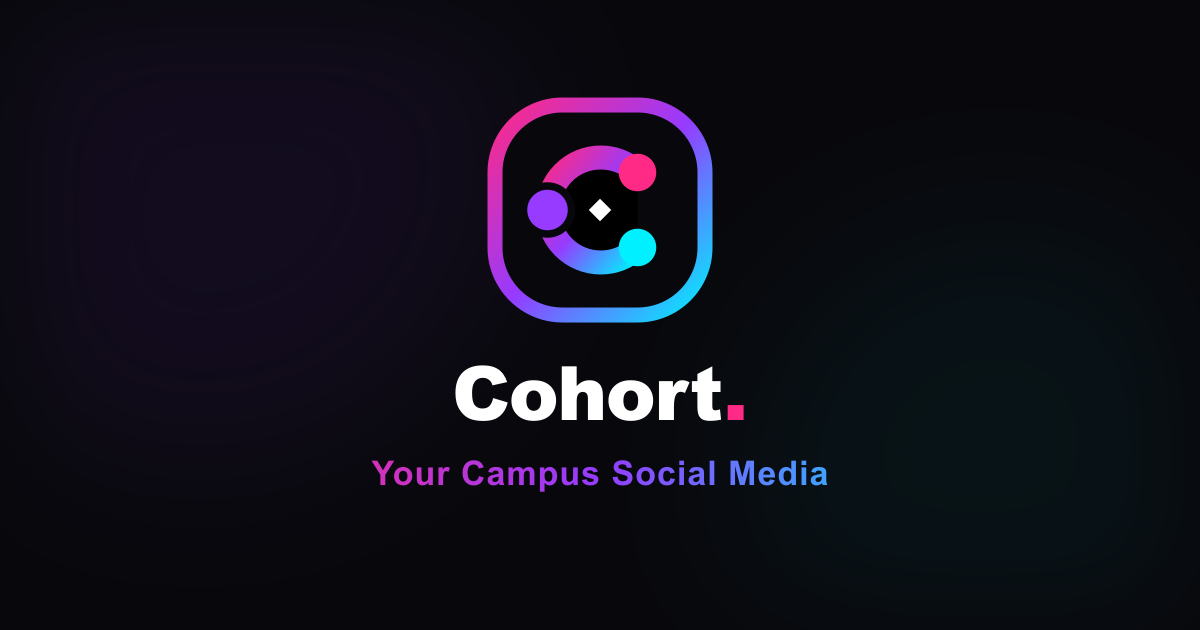
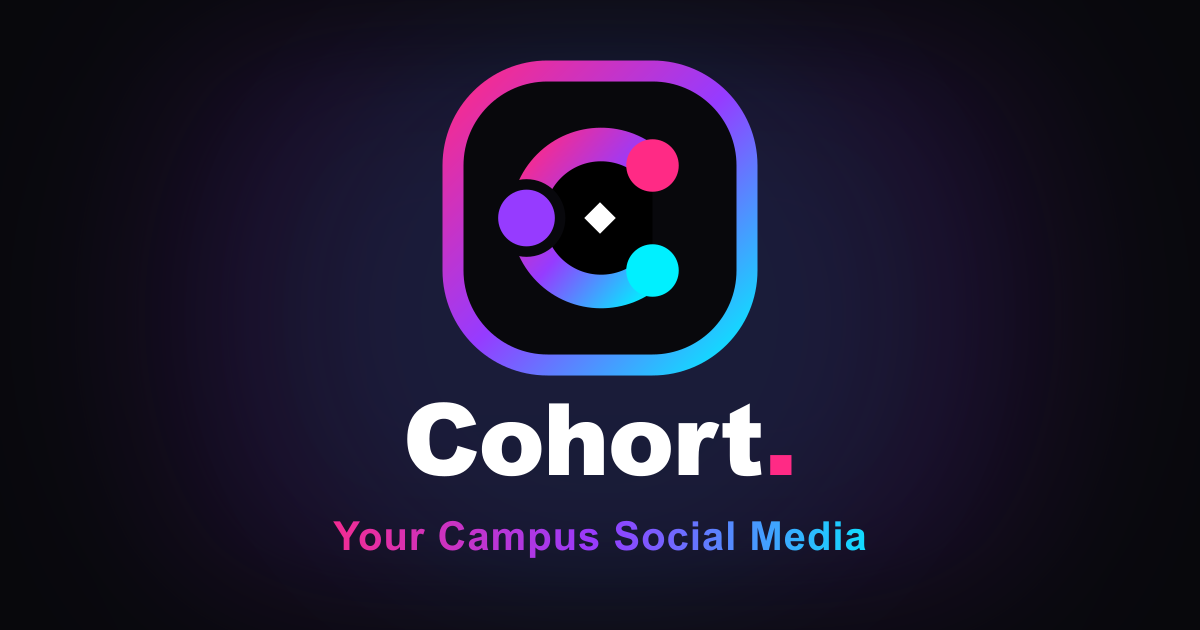
hdj

diff --git a/scripts/generate_seo_assets.js b/scripts/generate_seo_assets.js
@@ -103,7 +103,7 @@ async function generateOgImage() {
             <stop offset="50%" stop-color="#963BFF" />
             <stop offset="100%" stop-color="#00F0FF" />
           </linearGradient>
-          <linearGradient id="cohort-text-grad" x1="200" y1="420" x2="1000" y2="420" gradientUnits="userSpaceOnUse">
+          <linearGradient id="cohort-text-grad" x1="300" y1="550" x2="900" y2="550" gradientUnits="userSpaceOnUse">
             <stop offset="0%" stop-color="#FF2A85" />
             <stop offset="50%" stop-color="#963BFF" />
             <stop offset="100%" stop-color="#00F0FF" />
@@ -114,11 +114,11 @@ async function generateOgImage() {
         <rect x="0" y="0" width="1200" height="630" fill="#08080C" />
         
         <!-- Background decorative glows -->
-        <circle cx="200" cy="150" r="300" fill="#963BFF" opacity="0.08" filter="blur(80px)" />
-        <circle cx="1000" cy="480" r="250" fill="#00F0FF" opacity="0.05" filter="blur(80px)" />
+        <circle cx="600" cy="315" r="450" fill="#963BFF" opacity="0.14" filter="blur(90px)" />
+        <circle cx="600" cy="315" r="300" fill="#00F0FF" opacity="0.06" filter="blur(70px)" />
 
-        <!-- Centered Logo squircle (scaled 7.5x, centered around x=600, y=100) -->
-        <g transform="translate(480, 90) scale(7.5)">
+        <!-- Centered Logo squircle (scaled 10.5x, centered around x=600, y=50) -->
+        <g transform="translate(432, 50) scale(10.5)">
           <rect x="2" y="2" width="28" height="28" rx="9" fill="#08080C" stroke="url(#cohort-logo-grad)" stroke-width="2" />
           <path d="M 21,11 A 7,7 0 1,0 21,21" stroke="url(#cohort-logo-grad)" stroke-width="3.2" stroke-linecap="round" stroke-linejoin="round" />
           <circle cx="21" cy="11" r="2.5" fill="#FF2A85" />
@@ -128,10 +128,10 @@ async function generateOgImage() {
         </g>
 
         <!-- Brand Wordmark "Cohort." -->
-        <text x="600" y="420" font-family="'Outfit', 'Plus Jakarta Sans', 'Inter', 'Arial', sans-serif" font-size="75" font-weight="900" text-anchor="middle" fill="#FFFFFF" letter-spacing="-1.5">Cohort<tspan fill="#FF2A85">.</tspan></text>
+        <text x="600" y="475" font-family="'Outfit', 'Plus Jakarta Sans', 'Inter', 'Arial', sans-serif" font-size="100" font-weight="900" text-anchor="middle" fill="#FFFFFF" letter-spacing="-2">Cohort<tspan fill="#FF2A85">.</tspan></text>
         
         <!-- Tagline / Subtitle -->
-        <text x="600" y="485" font-family="'Plus Jakarta Sans', 'Outfit', 'Inter', 'Arial', sans-serif" font-size="34" font-weight="700" text-anchor="middle" fill="url(#cohort-text-grad)" letter-spacing="1">Your Campus Social Media</text>
+        <text x="600" y="550" font-family="'Plus Jakarta Sans', 'Outfit', 'Inter', 'Arial', sans-serif" font-size="40" font-weight="800" text-anchor="middle" fill="url(#cohort-text-grad)" letter-spacing="1">Your Campus Social Media</text>
       </svg>
     `;
 

diff --git a/index.html b/index.html
@@ -12,7 +12,6 @@
       // Disable default page view trigger on load for React SPA route compatibility
       gtag('config', 'G-P06KWK4X10', { send_page_view: false });
     </script>
-    <link rel="shortcut icon" href="/favicon.ico" />
     <link rel="icon" type="image/svg+xml" href="/logo.svg" />
     <link rel="icon" type="image/png" sizes="16x16" href="/favicon-16x16.png" />
     <link rel="icon" type="image/png" sizes="32x32" href="/favicon-32x32.png" />
@@ -20,6 +19,7 @@
     <link rel="icon" type="image/png" sizes="96x96" href="/favicon-96x96.png" />
     <link rel="icon" type="image/png" sizes="192x192" href="/favicon-192x192.png" />
     <link rel="apple-touch-icon" sizes="180x180" href="/apple-touch-icon.png" />
+    <link rel="shortcut icon" href="/favicon.ico" />
     <link rel="canonical" href="https://cohortnow.online/" />
     <meta name="viewport" content="width=device-width, initial-scale=1.0, maximum-scale=1.0, user-scalable=no, viewport-fit=cover, interactive-widget=resizes-content" />
     <meta name="description" content="Cohort - Your campus social media. A student community platform connecting college students with their campus communities, events, confessions, gossip, clubs, opportunities, and friends." />
